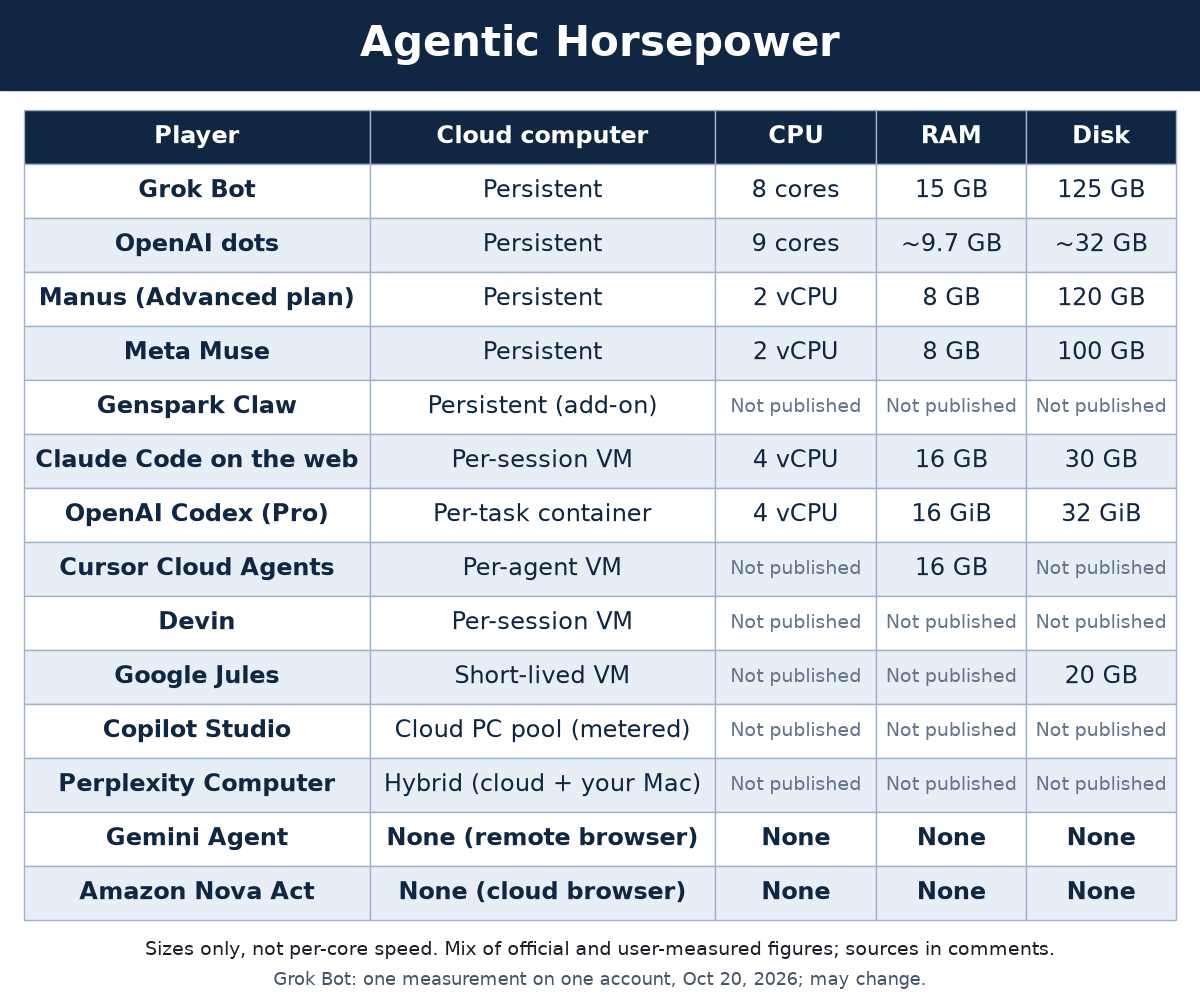
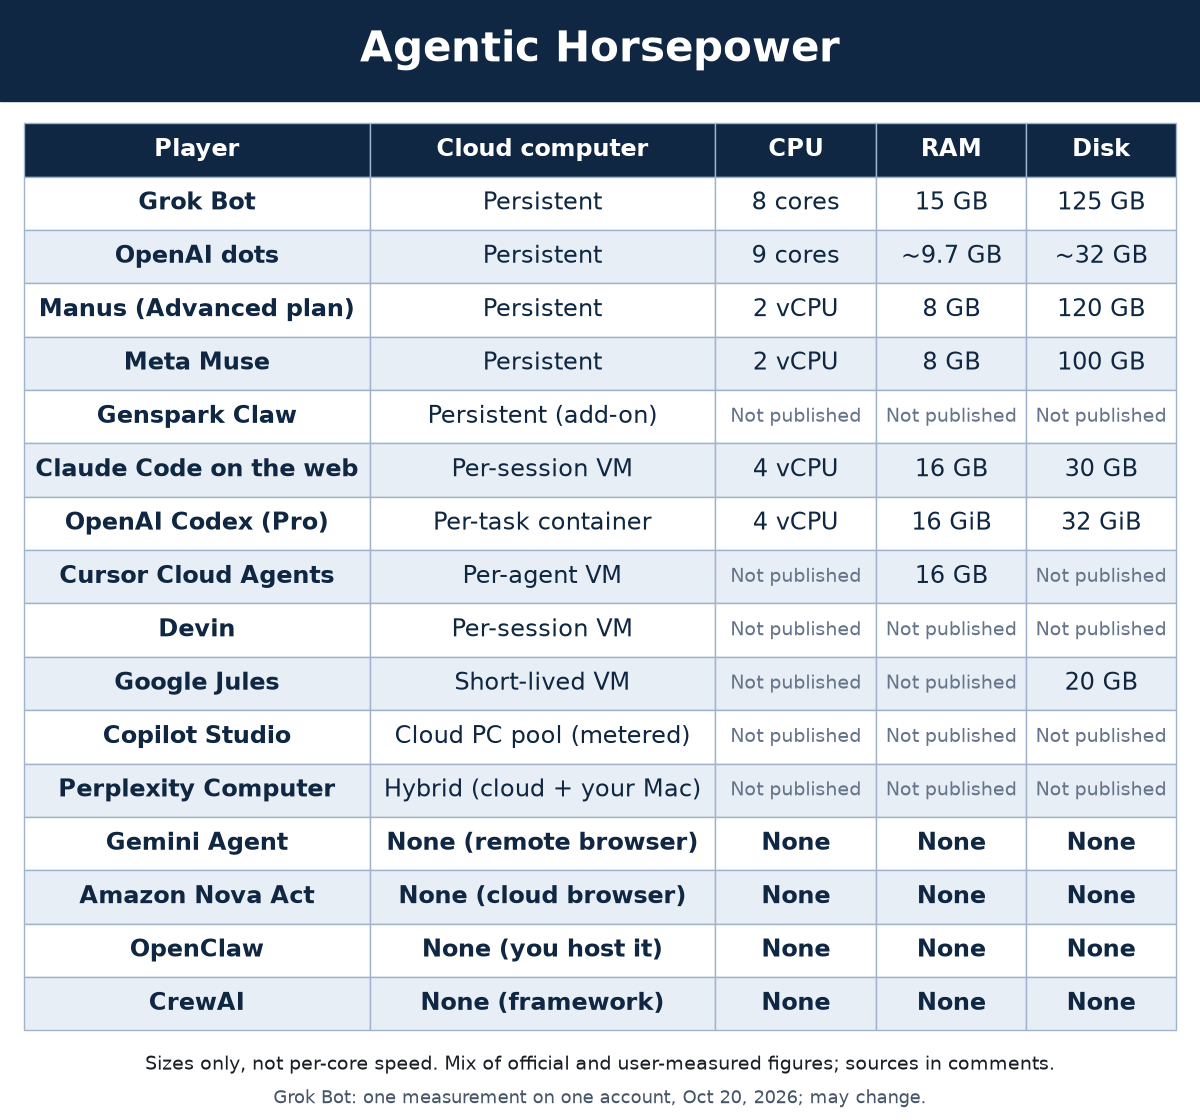
Update the agentic hood chart to sixteen players.

diff --git a/posts/what-is-under-your-agentic-hood.html b/posts/what-is-under-your-agentic-hood.html
@@ -52,13 +52,13 @@
         <div class="post-meta">October 20, 2026</div>
       </header>
       <div class="post-body fade-up">
-        <p><img src="https://jerrywlambert.com/img/what-is-under-your-agentic-hood-table.png" alt="Agentic Horsepower table of fourteen agentic AI players showing whether each provides a cloud computer and its CPU, RAM, and disk. Grok Bot persistent, 8 cores, 15 GB, 125 GB. OpenAI dots persistent, 9 cores, about 9.7 GB, about 32 GB. Manus Advanced plan persistent, 2 vCPU, 8 GB, 120 GB. Meta Muse persistent, 2 vCPU, 8 GB, 100 GB. Genspark Claw persistent add-on, specs not published. Claude Code on the web per-session VM, 4 vCPU, 16 GB, 30 GB. OpenAI Codex Pro per-task container, 4 vCPU, 16 GiB, 32 GiB. Cursor Cloud Agents per-agent VM, 16 GB RAM. Devin per-session VM, not published. Google Jules short-lived VM, 20 GB disk. Copilot Studio metered Cloud PC pool, not published. Perplexity Computer hybrid, not published. Gemini Agent and Amazon Nova Act: none, browser only. Sizes only, not per-core speed." width="1200" height="1000" loading="lazy" style="display:block;width:100%;max-width:800px;height:auto;border:1px solid #E2E8F0;border-radius:8px;"></p>
+        <p><img src="https://jerrywlambert.com/img/what-is-under-your-agentic-hood-table.png" alt="Agentic Horsepower table of sixteen agentic AI players showing whether each provides a cloud computer and its CPU, RAM, and disk. Grok Bot persistent, 8 cores, 15 GB, 125 GB. OpenAI dots persistent, 9 cores, about 9.7 GB, about 32 GB. Manus Advanced plan persistent, 2 vCPU, 8 GB, 120 GB. Meta Muse persistent, 2 vCPU, 8 GB, 100 GB. Genspark Claw persistent add-on, specs not published. Claude Code on the web per-session VM, 4 vCPU, 16 GB, 30 GB. OpenAI Codex Pro per-task container, 4 vCPU, 16 GiB, 32 GiB. Cursor Cloud Agents per-agent VM, 16 GB RAM. Devin per-session VM, not published. Google Jules short-lived VM, 20 GB disk. Copilot Studio metered Cloud PC pool, not published. Perplexity Computer hybrid, not published. Gemini Agent and Amazon Nova Act: none, browser only. OpenClaw: none, you host it. CrewAI: none, framework. Sizes only, not per-core speed." width="1200" height="1120" loading="lazy" style="display:block;width:100%;max-width:800px;height:auto;border:1px solid #E2E8F0;border-radius:8px;"></p>
 
         <p>My premise is simple. A cloud agent should come with a cloud computer. Its own CPU, memory, and disk, there when the agent needs to keep working. That machine is the engine under the hood.</p>
 
         <p>Some do. Many do not.</p>
 
-        <p>The chart lists fourteen agentic players and what each gives you. A few provide a persistent machine. Others spin up a VM or container per session or task instead of a machine that stays. Some run only a remote browser, so the computer column reads None. Many vendors do not publish the spec at all, so I wrote Not published rather than guess.</p>
+        <p>The chart lists sixteen agentic players and what each gives you. A few provide a persistent machine. Others spin up a VM or container per session or task instead of a machine that stays. Some run only a remote browser or leave the hosting to you, so the computer column reads None. Many vendors do not publish the spec at all, so I wrote Not published rather than guess.</p>
 
         <p>The figures are a mix of official vendor docs and user measurements. Sources are below.</p>
 
@@ -90,6 +90,8 @@
           <li>Perplexity Computer (official, no specs): <a href="https://www.perplexity.ai/hub/products/hybrid-compute" target="_blank" rel="noopener">https://www.perplexity.ai/hub/products/hybrid-compute</a></li>
           <li>Gemini Agent (official): <a href="https://support.google.com/gemini/answer/16821166?hl=en" target="_blank" rel="noopener">https://support.google.com/gemini/answer/16821166?hl=en</a></li>
           <li>Amazon Nova Act (official): <a href="https://aws.amazon.com/nova/act/" target="_blank" rel="noopener">https://aws.amazon.com/nova/act/</a></li>
+          <li>OpenClaw (self-hosted, runs on your own machine): <a href="https://openclaw.ai" target="_blank" rel="noopener">https://openclaw.ai</a></li>
+          <li>CrewAI (open-source framework): <a href="https://docs.crewai.com" target="_blank" rel="noopener">https://docs.crewai.com</a></li>
         </ul>
       </div>
     </div>
